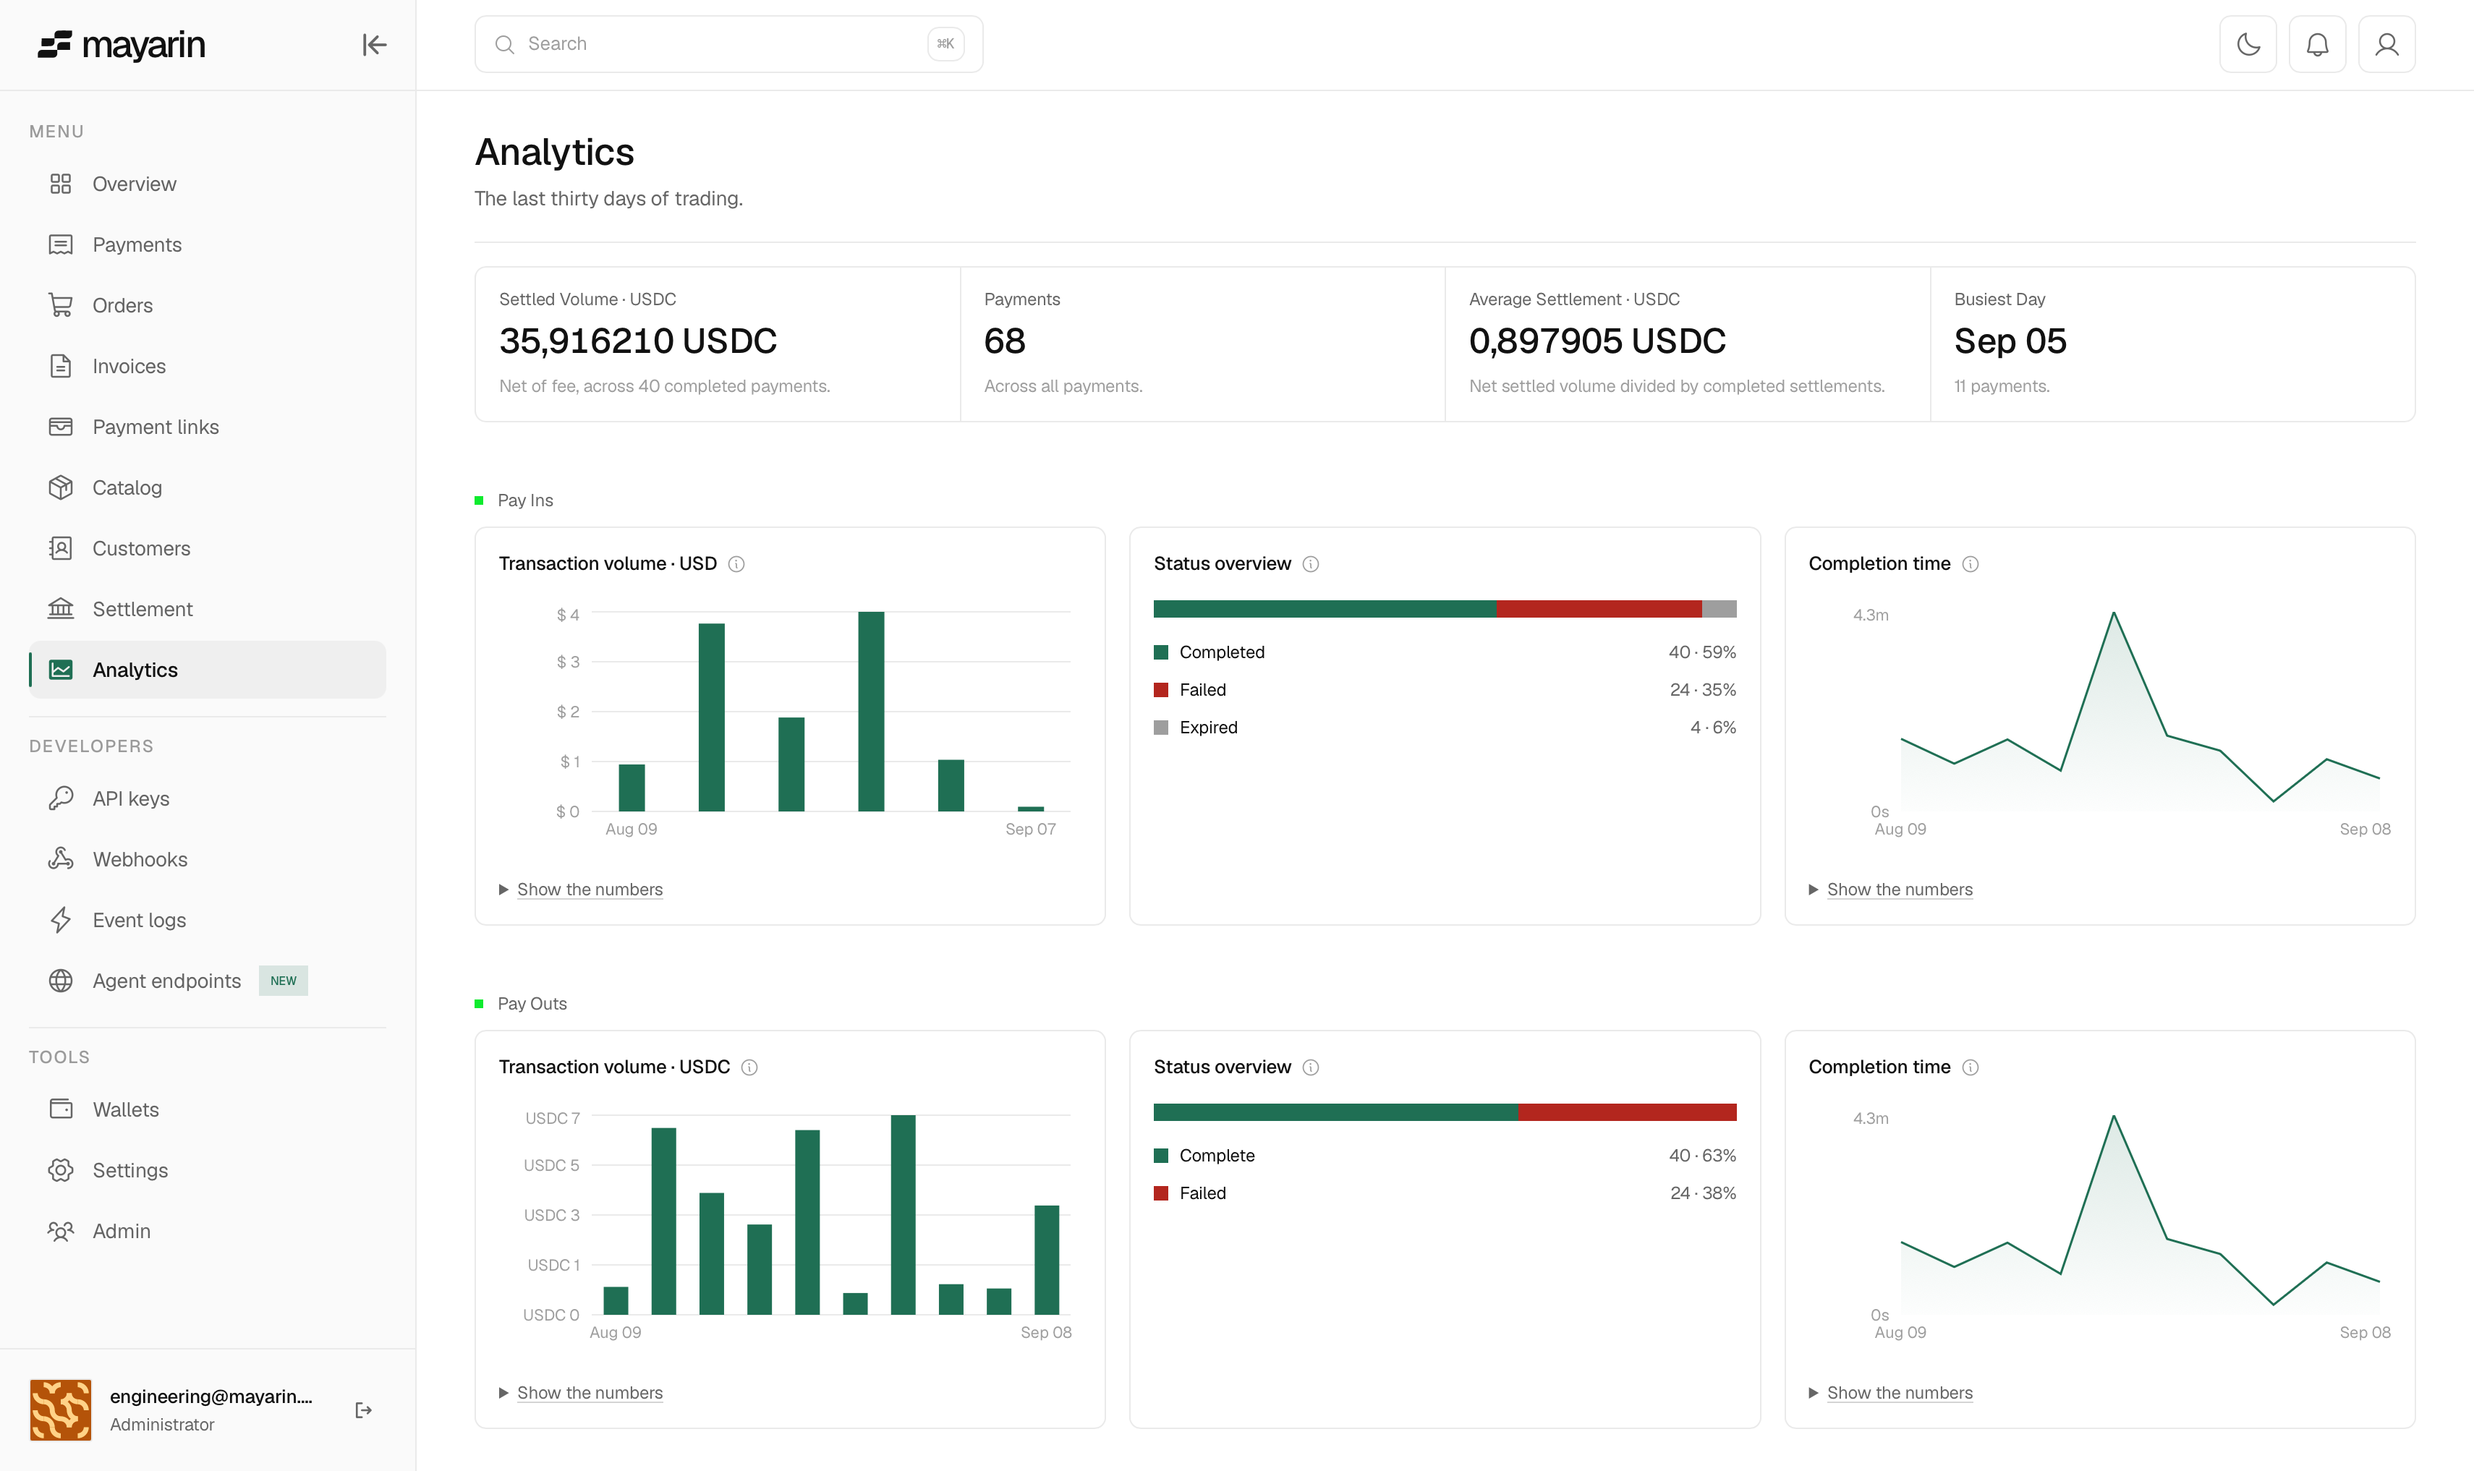
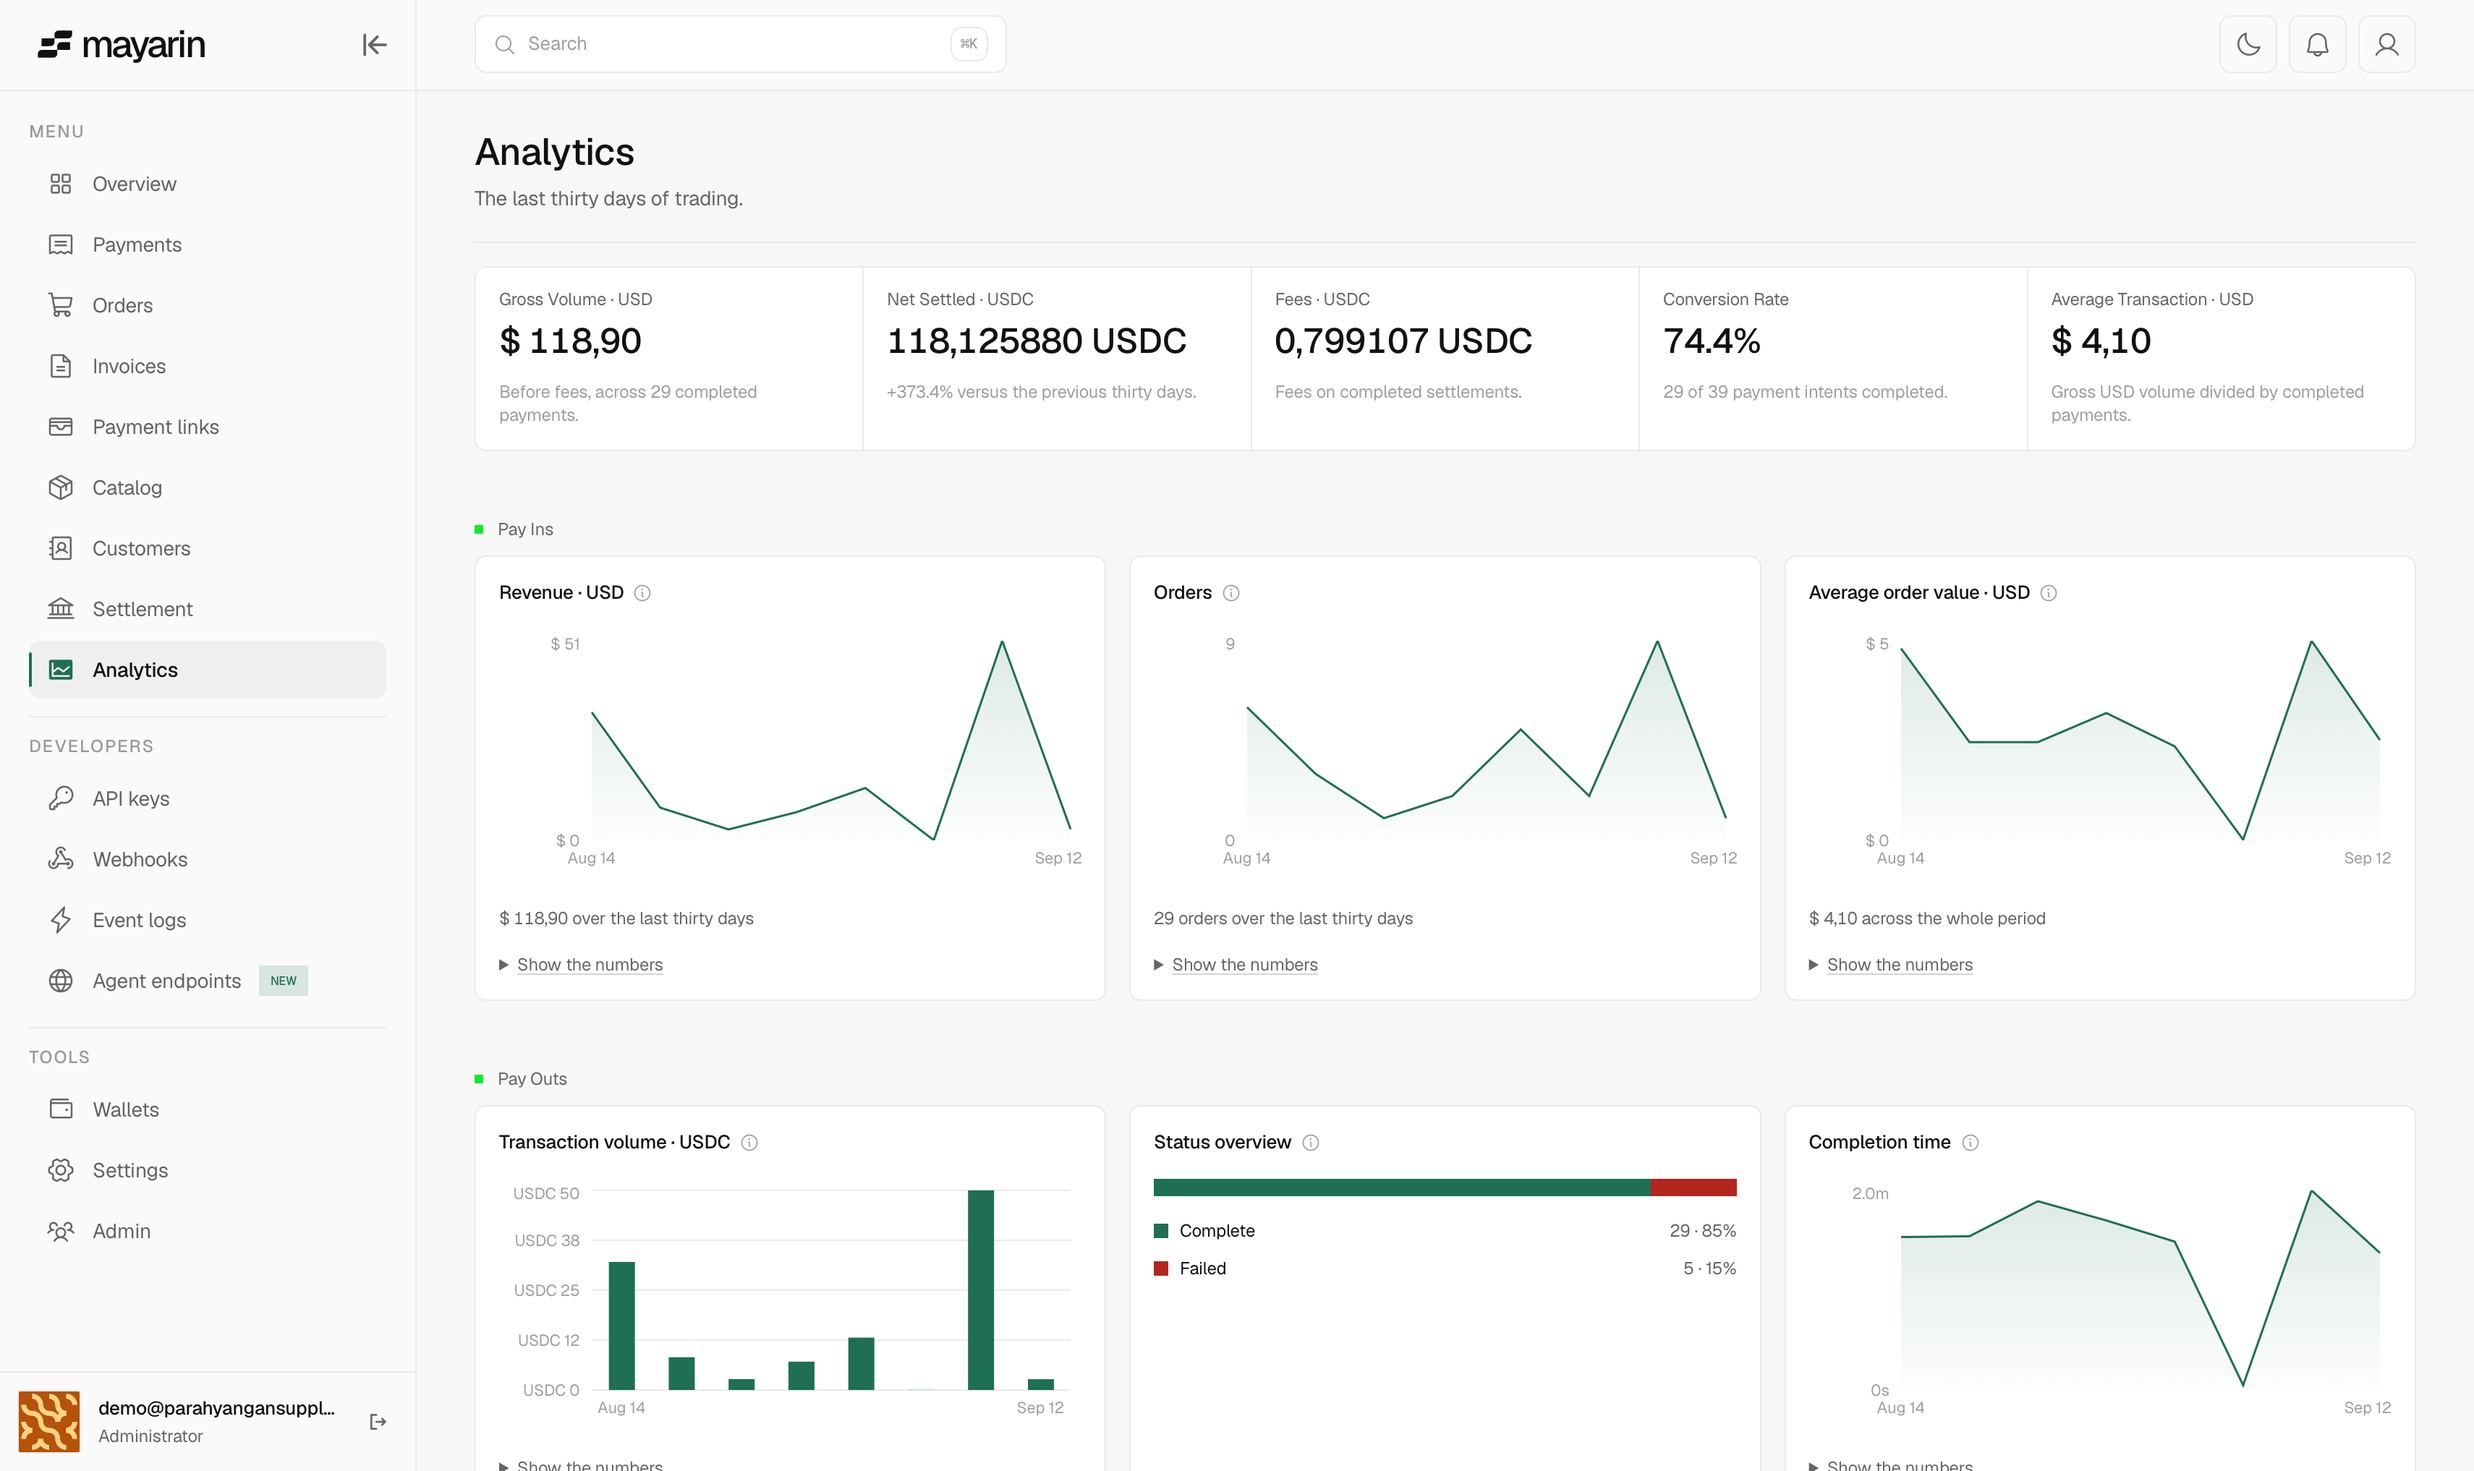
fix(ui): landing design

diff --git a/apps/landing/src/components/landing/platform-in-action.tsx b/apps/landing/src/components/landing/platform-in-action.tsx
@@ -215,8 +215,17 @@ function ProductImage({ view }: { readonly view: PlatformView }) {
         aria-label={`${previewView.alt} — zoomed preview`}
         class="fixed inset-0 m-0 h-dvh w-screen max-h-none max-w-none bg-transparent p-0 backdrop:bg-ink/70 backdrop:backdrop-blur-sm open:flex open:items-center open:justify-center"
       >
+        {/* Almost the whole viewport on a phone. These are landscape screens
+            being read on a portrait screen, so width is the only dimension
+            that sets how big the picture gets — the 86dvh ceiling never binds.
+            Reserving side gutters for the arrows spent a third of that width
+            on empty backdrop: at 400px the box was 288px, and a 1.68 ratio
+            made the screenshot 171px tall in a dialog with room for 750. The
+            arrows overlay the image instead, which is what their dark blurred
+            disc was already dressed for. From `md` the gutters are affordable
+            and come back. */}
         <div
-          class="flex max-h-[86dvh] max-w-[calc(100vw-7rem)] touch-pan-y items-center justify-center md:max-w-[calc(100vw-12rem)]"
+          class="flex max-h-[86dvh] max-w-[calc(100vw-1.5rem)] touch-pan-y items-center justify-center md:max-w-[calc(100vw-12rem)]"
           onPointerDown={(event) => {
             swipeStart.current = event.clientX;
           }}
@@ -247,7 +256,7 @@ function ProductImage({ view }: { readonly view: PlatformView }) {
           aria-label="Previous preview image"
           disabled={previewIndex === 0}
           onClick={() => movePreview(-1)}
-          class="absolute top-1/2 left-3 flex size-12 -translate-y-1/2 cursor-pointer items-center justify-center rounded-full border border-white/25 bg-black/45 text-white backdrop-blur-md transition-colors hover:border-white/60 hover:bg-white hover:text-ink disabled:cursor-default disabled:opacity-25 disabled:hover:border-white/25 disabled:hover:bg-black/45 disabled:hover:text-white md:left-8"
+          class="absolute top-1/2 left-2 flex size-10 -translate-y-1/2 cursor-pointer items-center justify-center rounded-full border border-white/25 bg-black/45 text-white backdrop-blur-md transition-colors hover:border-white/60 hover:bg-white hover:text-ink disabled:cursor-default disabled:opacity-25 disabled:hover:border-white/25 disabled:hover:bg-black/45 disabled:hover:text-white md:left-8 md:size-12"
         >
           <ArrowRight class="size-5 rotate-180" />
         </button>
@@ -256,7 +265,7 @@ function ProductImage({ view }: { readonly view: PlatformView }) {
           aria-label="Next preview image"
           disabled={previewIndex === PREVIEW_VIEWS.length - 1}
           onClick={() => movePreview(1)}
-          class="absolute top-1/2 right-3 flex size-12 -translate-y-1/2 cursor-pointer items-center justify-center rounded-full border border-white/25 bg-black/45 text-white backdrop-blur-md transition-colors hover:border-white/60 hover:bg-white hover:text-ink disabled:cursor-default disabled:opacity-25 disabled:hover:border-white/25 disabled:hover:bg-black/45 disabled:hover:text-white md:right-8"
+          class="absolute top-1/2 right-2 flex size-10 -translate-y-1/2 cursor-pointer items-center justify-center rounded-full border border-white/25 bg-black/45 text-white backdrop-blur-md transition-colors hover:border-white/60 hover:bg-white hover:text-ink disabled:cursor-default disabled:opacity-25 disabled:hover:border-white/25 disabled:hover:bg-black/45 disabled:hover:text-white md:right-8 md:size-12"
         >
           <ArrowRight class="size-5" />
         </button>

diff --git a/apps/landing/src/components/landing/developers.tsx b/apps/landing/src/components/landing/developers.tsx
@@ -53,7 +53,18 @@ function CodePreview({ snippet }: { readonly snippet: Snippet }) {
   };
 
   return (
-    <div class="flex max-h-full min-h-0 min-w-0 flex-col self-center overflow-hidden rounded-2xl bg-code-panel">
+    // On a phone the panel fills the card it sits in, square, so the card's
+    // corner is the only corner. A dark inset rectangle floating inside a light
+    // card reads as two cards at 400px, and the code inside it loses the 56px
+    // the side gutters were taking on the narrowest screen.
+    //
+    // The sides are cancelled here with a negative margin; the bottom is
+    // removed from the card instead (`pb-0` until `md`). A negative *block*
+    // margin on a grid item is undone by the row sizing — the row shrinks by it
+    // and `stretch` hands the height straight back — so it nets to nothing,
+    // while the inline one works. From `md` the card has room for both and the
+    // panel goes back to being a panel.
+    <div class="-mx-7 flex max-h-full min-h-0 min-w-0 flex-col self-stretch overflow-hidden bg-code-panel md:mx-0 md:self-center md:rounded-2xl">
       <div class="flex items-center justify-between gap-3 border-b border-line-inverse px-5 py-3.5">
         <div class="flex items-center gap-3">
           <LanguageMark lang={snippet.lang} />
@@ -69,7 +80,7 @@ function CodePreview({ snippet }: { readonly snippet: Snippet }) {
         </button>
       </div>
       <div
-        class="code-surface min-h-0 min-w-0 flex-1 overflow-auto [scrollbar-width:none] [&::-webkit-scrollbar]:hidden [&_pre]:[scrollbar-width:none] [&_pre::-webkit-scrollbar]:hidden"
+        class="code-surface min-h-0 min-w-0 flex-1 overflow-auto scrollbar-none [&::-webkit-scrollbar]:hidden [&_pre]:scrollbar-none [&_pre::-webkit-scrollbar]:hidden"
         dangerouslySetInnerHTML={{ __html: snippet.html }}
       />
     </div>
@@ -142,10 +153,12 @@ export function Developers() {
 
       <div ref={stack} class="mt-14 flex flex-col gap-6 md:mt-20">
         {DEVELOPER_CARDS.map((card) => (
+          // `overflow-hidden` is what lets the snippet run to the card's edge
+          // on a phone: the panel is square and the card's radius clips it.
           <article
             key={card.eyebrow}
             data-developer-card
-            class="grid origin-top gap-10 rounded-3xl border border-line bg-v2-mist p-7 md:p-12 lg:sticky lg:top-24 lg:h-[min(36rem,calc(100svh-8rem))] lg:grid-cols-[1fr_1.1fr] lg:gap-16 lg:p-14"
+            class="grid origin-top gap-10 overflow-hidden rounded-3xl border border-line bg-v2-mist px-7 pt-7 pb-0 md:p-12 lg:sticky lg:top-24 lg:h-[min(36rem,calc(100svh-8rem))] lg:grid-cols-[1fr_1.1fr] lg:gap-16 lg:p-14"
           >
             <div class="flex flex-col">
               <p class="text-[15px] font-medium text-forest">{card.eyebrow}</p>

diff --git a/apps/landing/src/components/landing/payment-orbits.tsx b/apps/landing/src/components/landing/payment-orbits.tsx
@@ -43,7 +43,20 @@ const ORBITS = [
 function Currency({ code }: { readonly code: AssetCode }) {
   const symbol = assetSymbol(code) ?? code;
   return (
-    <>
+    // The disc is drawn once, in viewBox units, and scaled up on a phone.
+    //
+    // The viewBox is 1200 wide and the SVG is laid out at 145% of the viewport,
+    // so every unit shrinks with the screen: a 24-unit disc that renders at
+    // 22px on a desktop is 12px on a 400px phone, and the symbol inside it
+    // stops being a symbol. The steps roughly cancel that, holding the mark
+    // between 22px and 30px from the narrowest phone up to `md`, where the
+    // viewBox is finally big enough to carry it unscaled.
+    //
+    // Scaled here rather than by branching on a measured width: the geometry
+    // stays one set of numbers and the breakpoints only say how large it is
+    // drawn. `fill-box` pins the origin to the disc — the SVG default would
+    // scale it about the centre of the viewBox and fling it off its orbit.
+    <g class="[transform-box:fill-box] [transform-origin:center] scale-[1.85] min-[560px]:scale-[1.35] md:scale-100">
       <circle r="12" class="fill-v2-mist stroke-forest/35" stroke-width="1" />
       <text
         text-anchor="middle"
@@ -56,7 +69,7 @@ function Currency({ code }: { readonly code: AssetCode }) {
       >
         {symbol}
       </text>
-    </>
+    </g>
   );
 }
 

diff --git a/apps/landing/src/components/landing/nav.tsx b/apps/landing/src/components/landing/nav.tsx
@@ -191,9 +191,9 @@ export function Navigation() {
             aria-hidden="true"
             width="48"
             height="48"
-            class="size-12"
+            class="md:size-12 size-10"
           />
-          <span class="font-medium font-sans -ml-1 text-[1.8rem]">mayarin</span>
+          <span class="font-medium font-sans -ml-1 text-[1.7rem] md:text-[1.8rem]">mayarin</span>
         </a>
 
         {/* Beside the wordmark rather than centred: the bar reads left to right,

diff --git a/apps/landing/src/components/landing/ui.tsx b/apps/landing/src/components/landing/ui.tsx
@@ -41,13 +41,13 @@ export function SectionIntro({
       <p class="mb-3 text-[15px] font-medium font-sans text-forest">{label}</p>
       <h2>{title}</h2>
       {children && (
-        <p
+        <div
           class={clsx("mt-6 max-w-135 text-base leading-relaxed text-slate-600 md:text-lg", {
             "mx-auto": centered,
           })}
         >
           {children}
-        </p>
+        </div>
       )}
     </div>
   );
